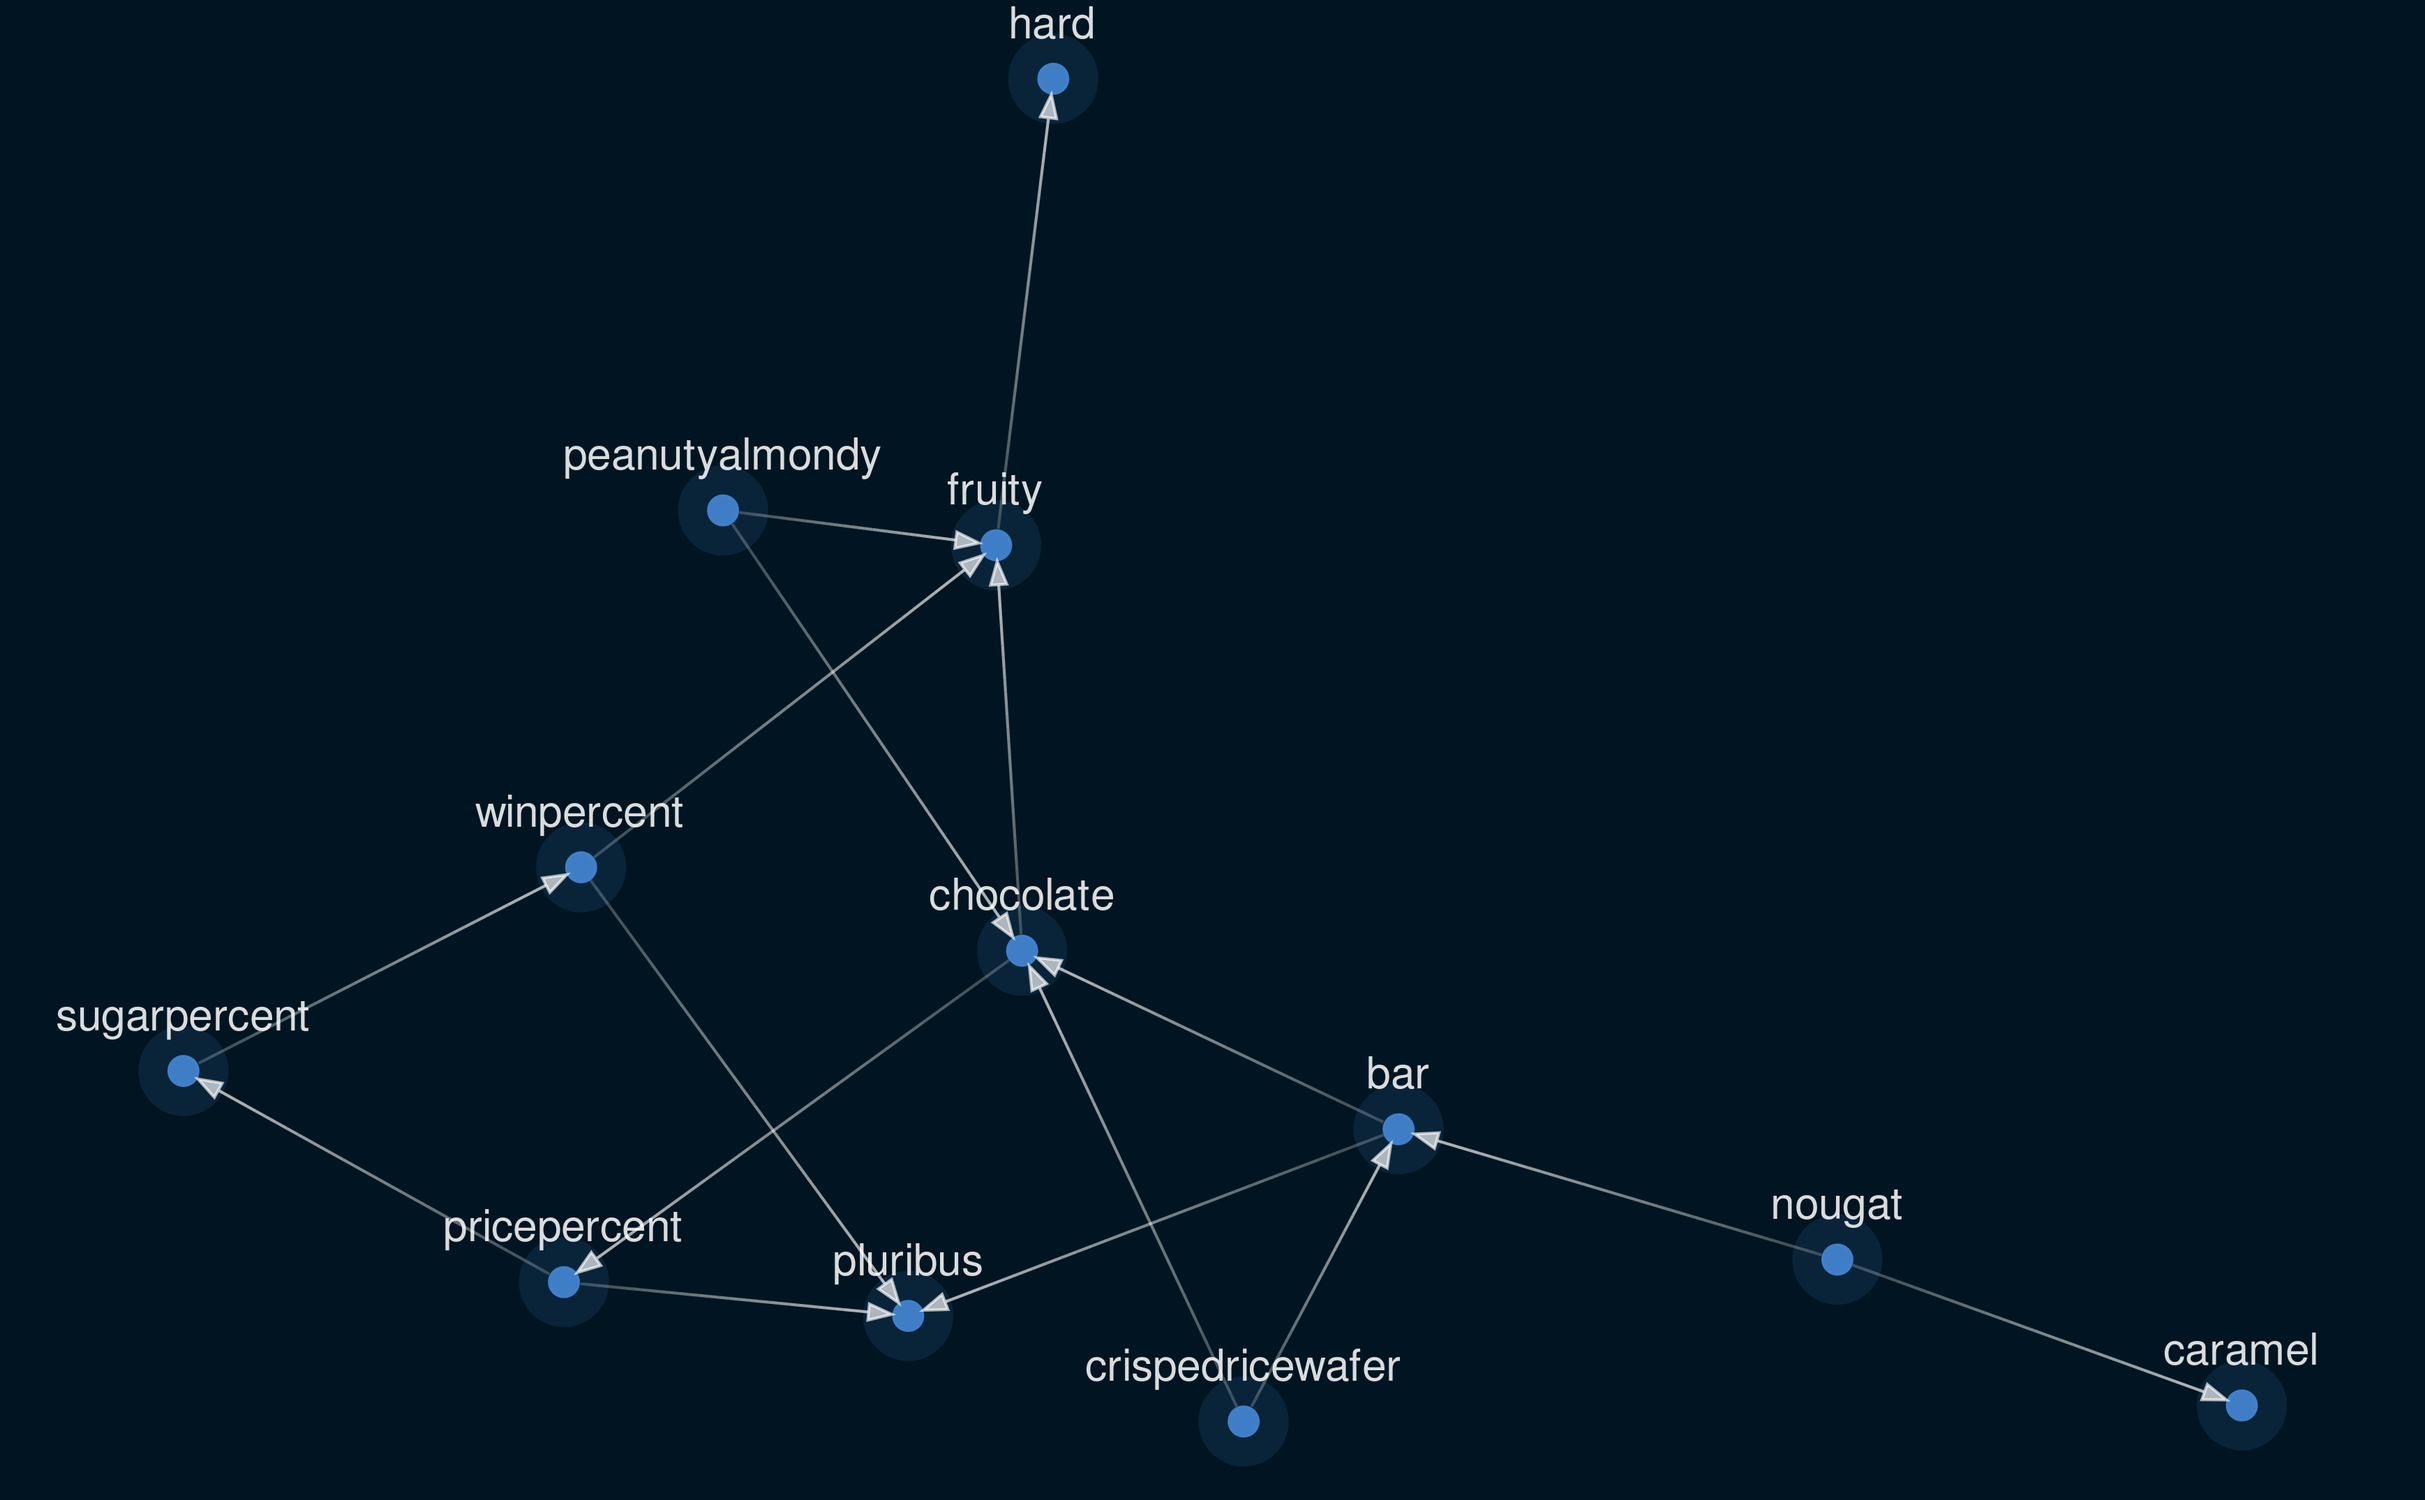
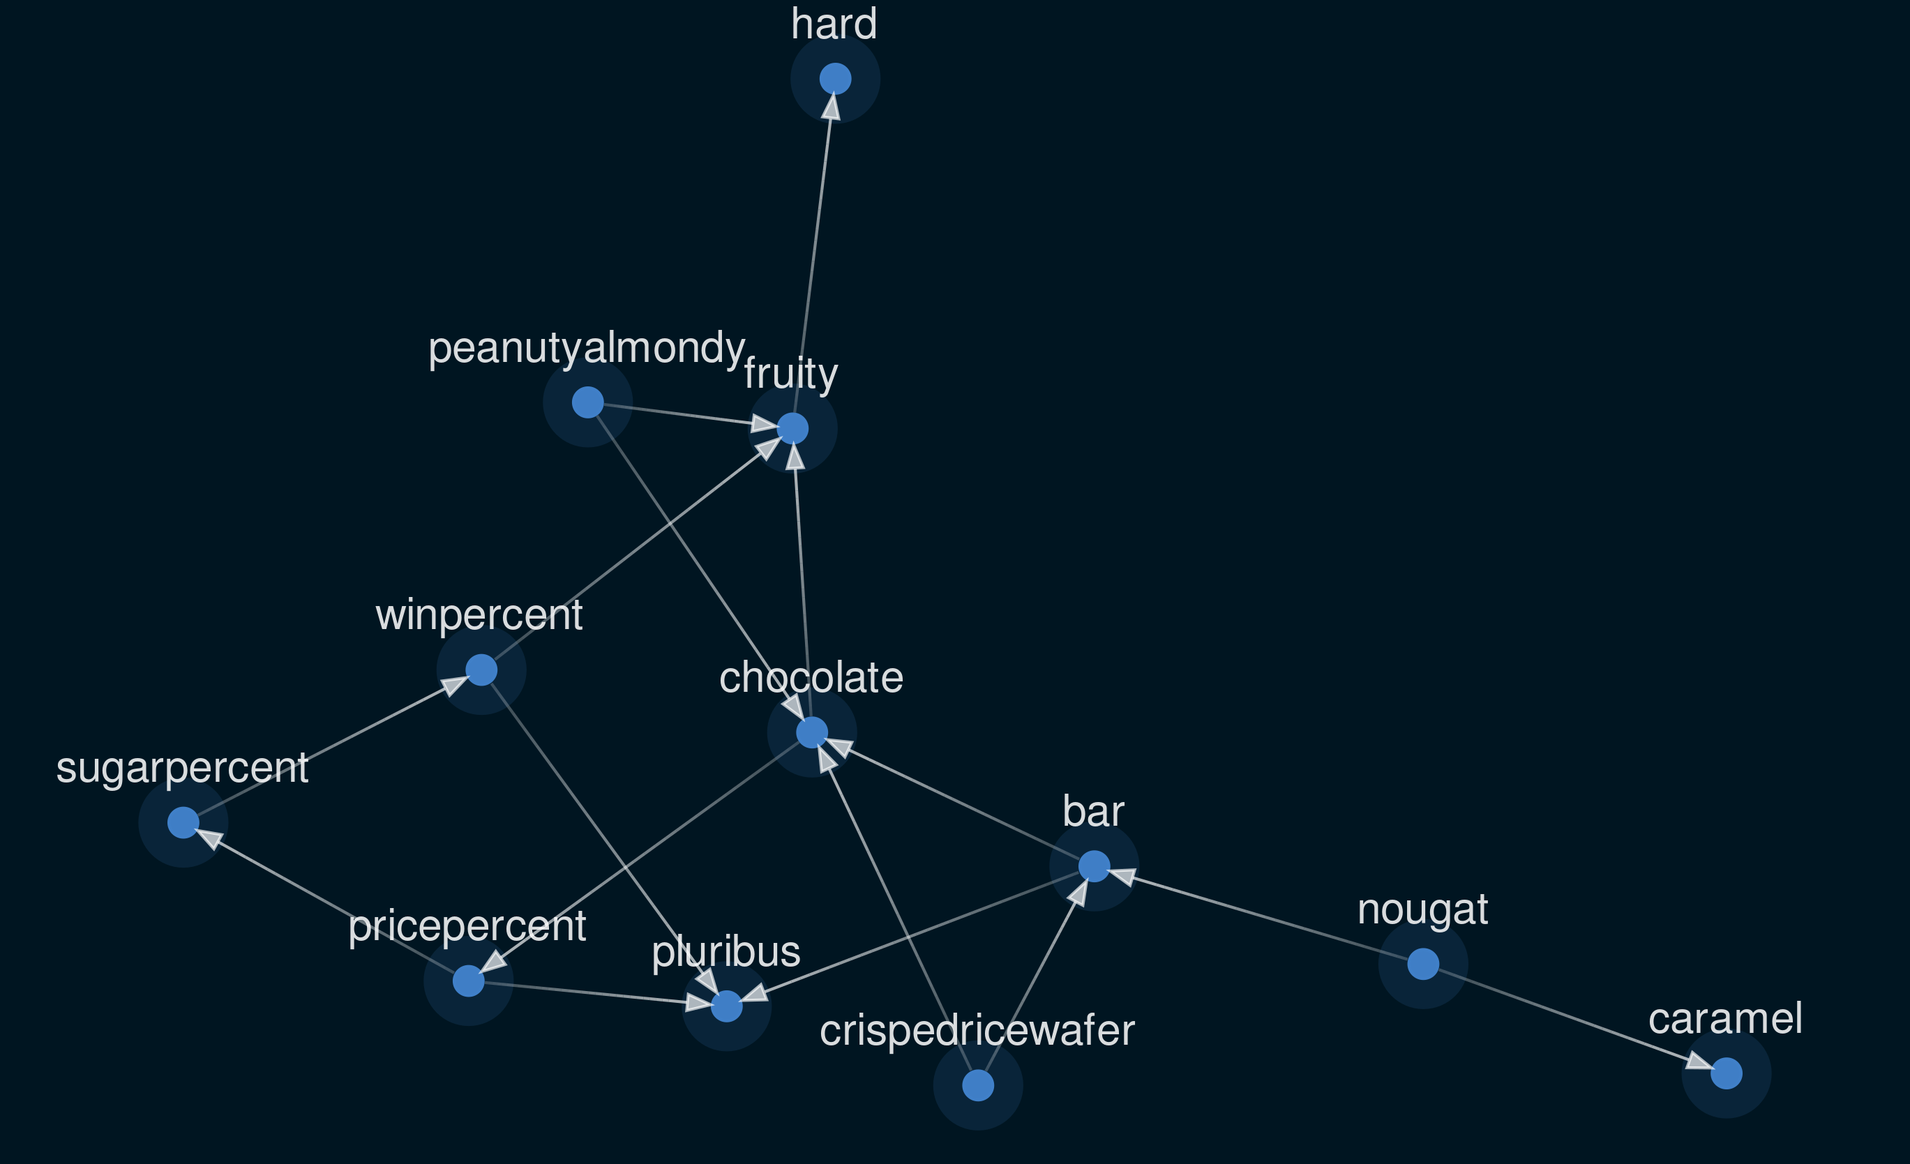
candy

diff --git a/_posts/2020-11-02-nodevember:-bayesian-inference-on-candy-data.md b/_posts/2020-11-02-nodevember:-bayesian-inference-on-candy-data.md
@@ -3,13 +3,15 @@ layout: post
 tags: UT3
 ---
 
-It's November, the season of [personal challenges and self improvement](https://en.wikipedia.org/wiki/No_Nut_November). In the spirit of this, the procedural generation community celebrate [Nodevember](https://nodevember.io/), a daily challenge with the goal of inspiring 3D modellers and VFX artists to improve their node-based procedural skills. But you know what else has nodes: Bayesian networks! So here I present my unorthodox take on Nodevember. Based on each one word theme, I hope to invent a task or explore a dataset using a machine learning model that, at least in some sense, has nodes.
+It's November, the season of [personal challenges and self improvement](https://en.wikipedia.org/wiki/No_Nut_November). In the spirit of this, the procedural generation community celebrate [Nodevember](https://nodevember.io/), a daily challenge with the goal of inspiring 3D modellers and VFX artists to improve their node-based procedural skills. But you know what else has nodes: Bayesian networks!
+
+So here I present my unorthodox take on Nodevember. Based on each one word theme, I hope to invent a task or explore a dataset using a machine learning model that, at least in some sense, has nodes.
 
 Today's theme is "candy". A quick search for a "candy dataset" drew my attention to [this fantastic dataset](https://www.kaggle.com/fivethirtyeight/fivethirtyeight-candy-power-ranking-dataset) provided by [FiveThirtyEight](https://fivethirtyeight.com/videos/the-ultimate-halloween-candy-power-ranking/). The dataset is a small but interesting tabulation of information about different kinds of candy. For example, is it chocolaty? Is there nougat in it? How does the cost compare to other candies? Finally, the researchers set up an online survey that asked participants to select their preference out of two randomly chosen candies. More than 8000 participants voted on about 269,000 randomly generated matchups, making this a fascinating sample of what candies people prefer.
 
 ## Importing the data
 
-The candy data is provided as a CSV file. We can use [Pandas](https://pandas.pydata.org/) to import it. We drop the *'competitorname'* column since it is unimportant convert *'winpercent'* from a percentage to a value between 0 and 1. Strangely, the *'sugarpercent'* and *'pricepercent'* values are not percentages at all and are already in this range.
+The candy data is provided as a CSV file. We can use [Pandas](https://pandas.pydata.org/) to import it. We drop the *'competitorname'* column since it is unimportant and then convert *'winpercent'* from a percentage to a value between 0 and 1. Strangely, the *'sugarpercent'* and *'pricepercent'* values are not percentages at all and are already in this range.
 
 ```python
 import pandas as pd
@@ -86,14 +88,14 @@ from causalnex.plots import plot_structure
 structure = notears.from_pandas(data)
 structure.remove_edges_below_threshold(0.3)
 
-graph = plot_structure(structure, graph_attributes={'scale': '2'})
+graph = plot_structure(structure, graph_attributes={'scale': '1.5'})
 graph.draw('structure.png')
 ```
 
 ![candy-002](/img/candy-002.png)
 ###### Figure 2: The structure learned from candy dataset using NOTEARS.
 
-So what is this structure telling us? Well, to assign causality to or from the majority of the variables in this dataset makes little sense. Is being a bar the reason a candy is chocolatey? No, they are simply correlated. Yet a proposed arrow of causality has been drawn between *'bar'* and *'chocolate'*. Arguably, the only variables that can be causal endpoints are *'winpercent'*, *'sugarpercent'*, and *'pricepercent'*, with all others being independent factors. At this point we can include such domain knowledge by manually updating the graph. However, I think that the outcome of structure learning like this is cool, so I'm going to leave it for now.
+So what is this structure telling us? Well, to assign causality to or from the majority of the variables in this dataset makes little sense. Is being a bar the reason a candy is chocolatey? No, they are simply correlated. Yet a proposed arrow of causality has been drawn between *'bar'* and *'chocolate'*. Arguably, the only variables that can be causal endpoints are *'winpercent'*, *'sugarpercent'*, and *'pricepercent'*, with all others being independent factors. At this point we could include some domain knowledge by manually updating the graph. However, I think that the outcome of structure learning like this is cool, so I'm going to leave it for now.
 
 ### Discretising continuous variables
 
@@ -192,7 +194,7 @@ print(predictions)
 42    1
 ```
 
-These values mostly match, meaning our model was able to predict the chocolateyness of previously unseen candy types!
+These values mostly match, meaning our model was able to predict the chocolatiness of previously unseen candy types!
 
 ```python
 report = classification_report(model, test, test_variable)
